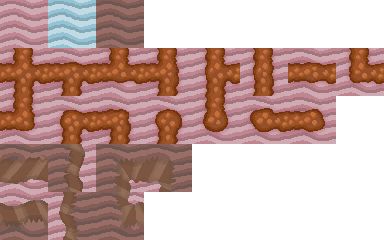
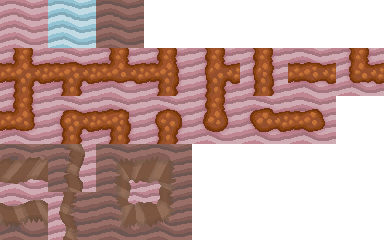
Added new til;e

Changed region(s): [[0.375, 0.7875, 0.5, 1.0]]

diff --git a/src/tile_image_loader.py b/src/tile_image_loader.py
@@ -35,6 +35,7 @@ wall_4 = (48, 192, 48, 48)
 wall_5 = (96, 144, 48, 48)
 wall_6 = (96, 192, 48, 48)
 wall_7 = (144, 144, 48, 48)
+wall_8 = (144, 192, 48, 48)
 
 tiles = [generic_ground, water, path_1,
          path_2, path_3, path_4, path_5,
@@ -43,7 +44,7 @@ tiles = [generic_ground, water, path_1,
          path_13, path_14, path_15,
          dark_ground, wall_1, wall_2,
          wall_3, wall_4, wall_5, wall_6,
-         wall_7]
+         wall_7, wall_8]
 images = []
 
 sprite_sheet = None

diff --git a/src/map_generator.py b/src/map_generator.py
@@ -36,7 +36,8 @@ tile_colors = {15724527: "00",
                9408399: "21",
                9934743: "22",
                10461087: "23",
-               10987431: "24"}
+               10987431: "24",
+               11513775: "25"}
 
 
 def generate_map(blueprint):
